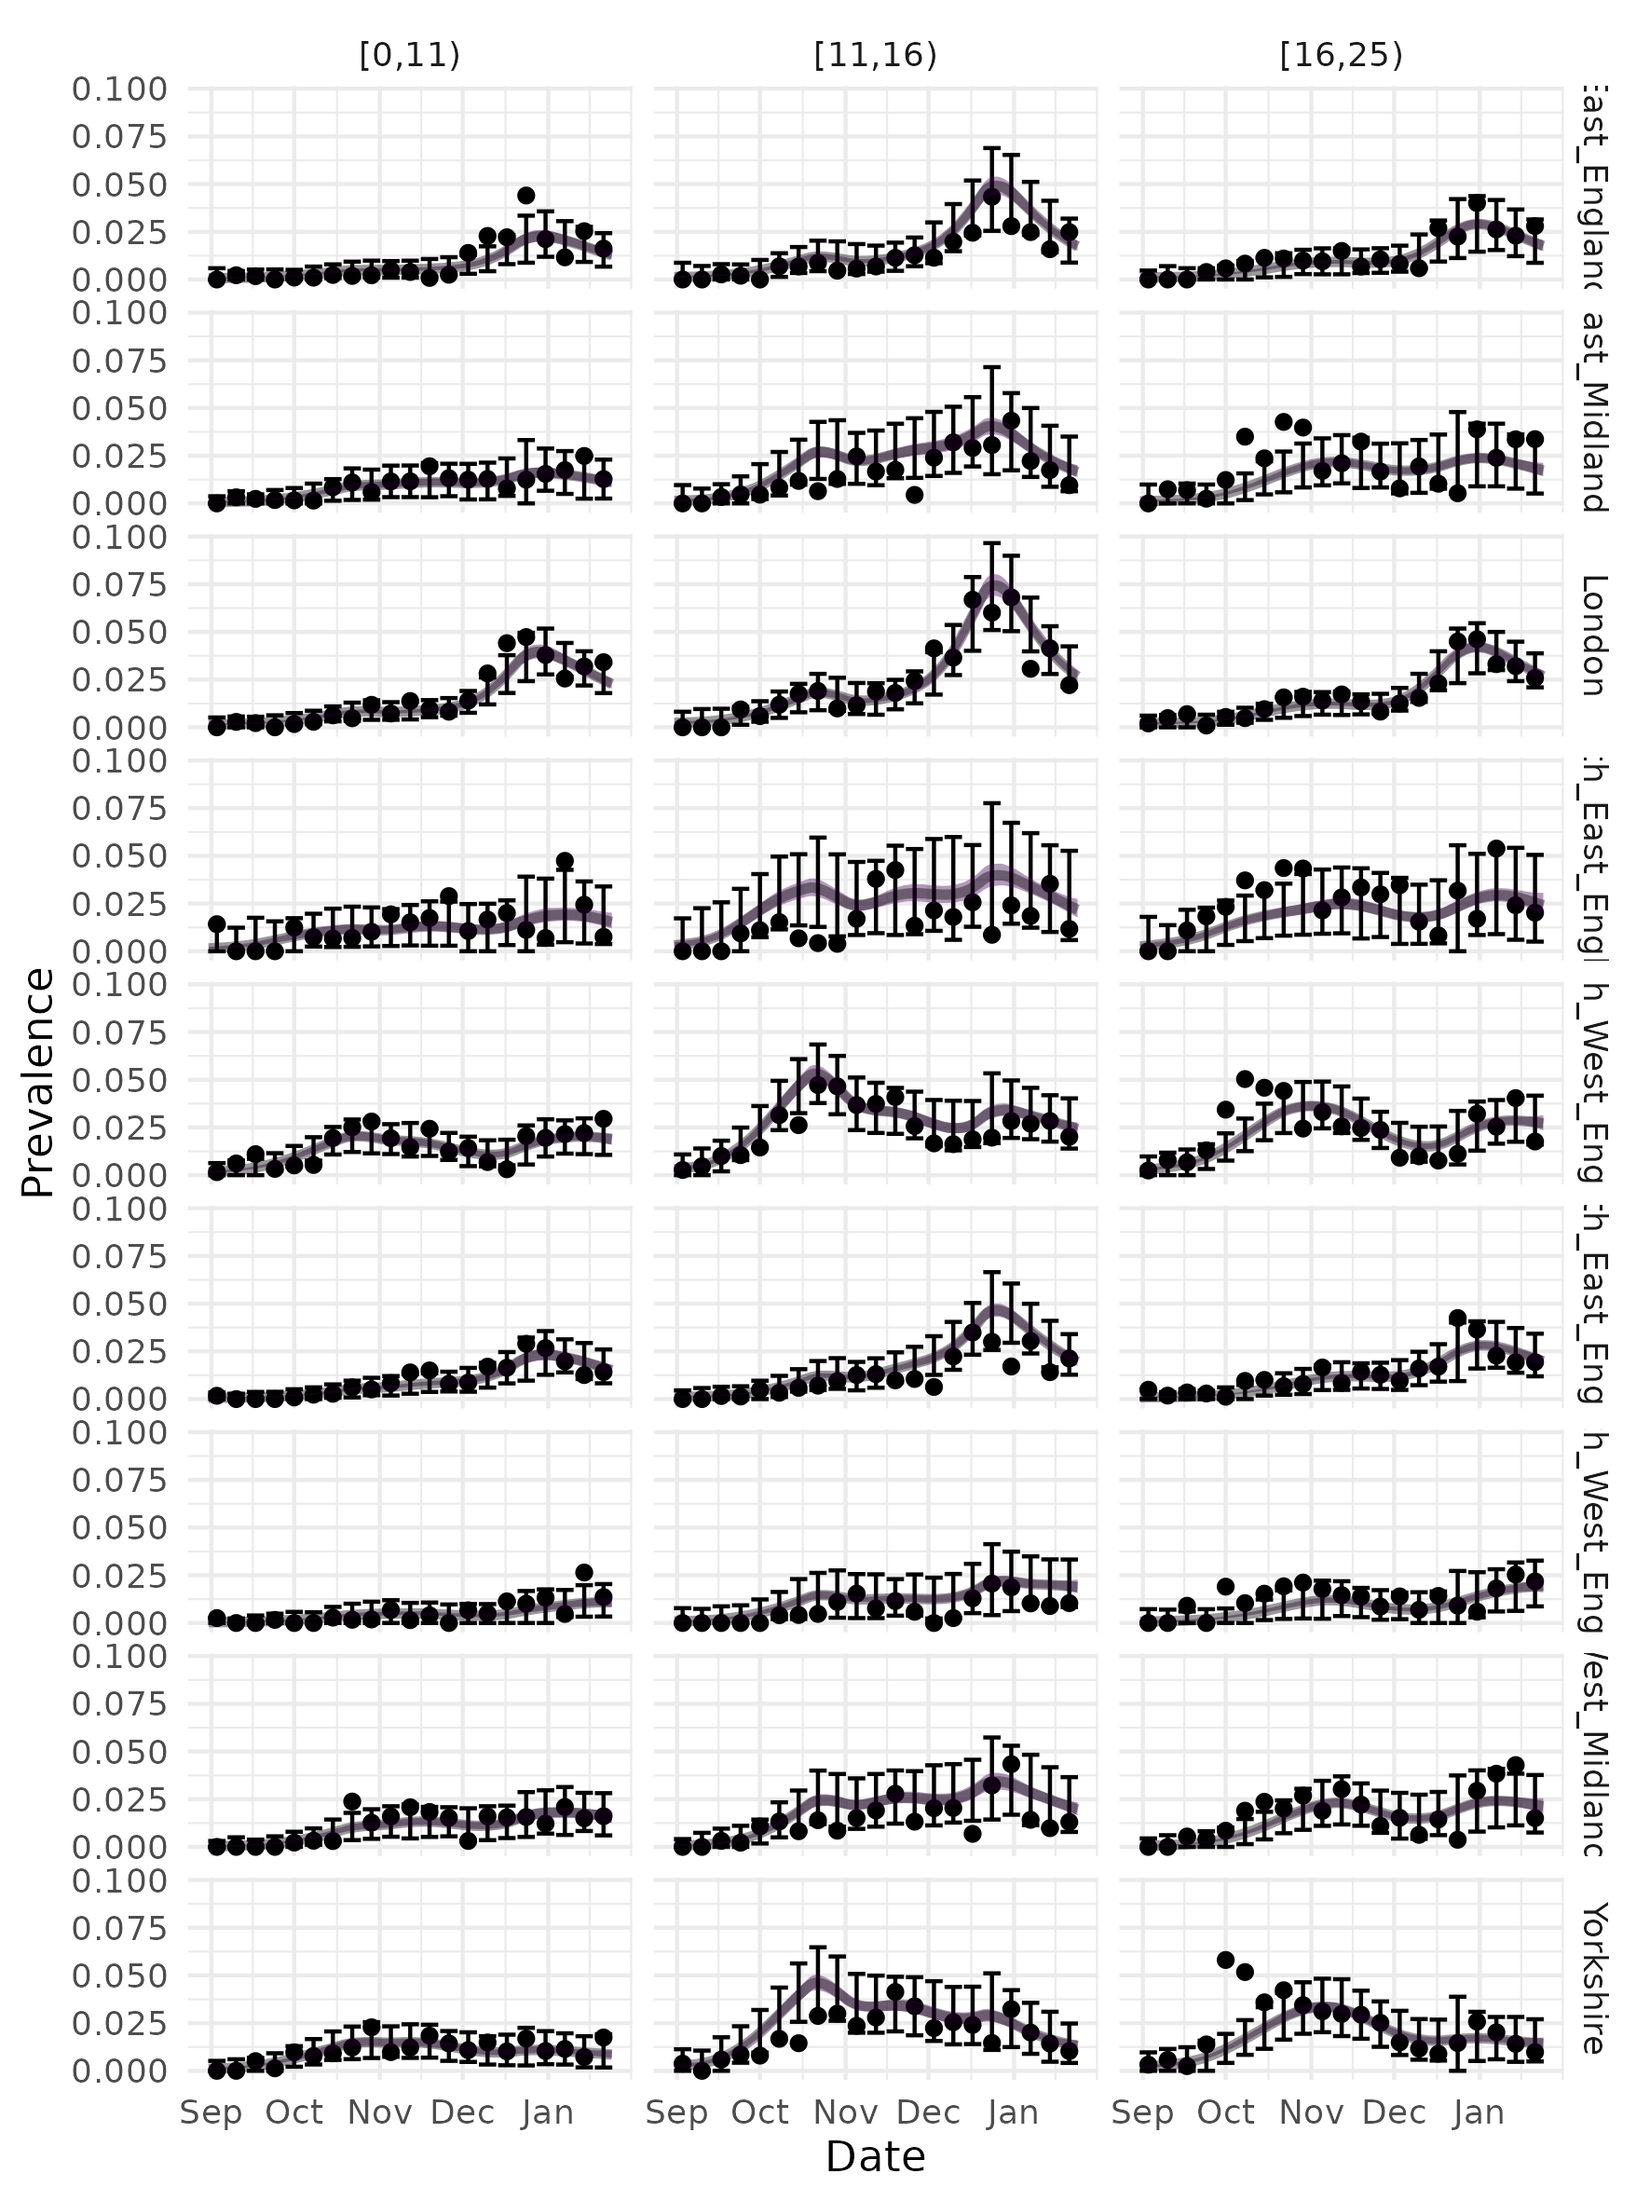
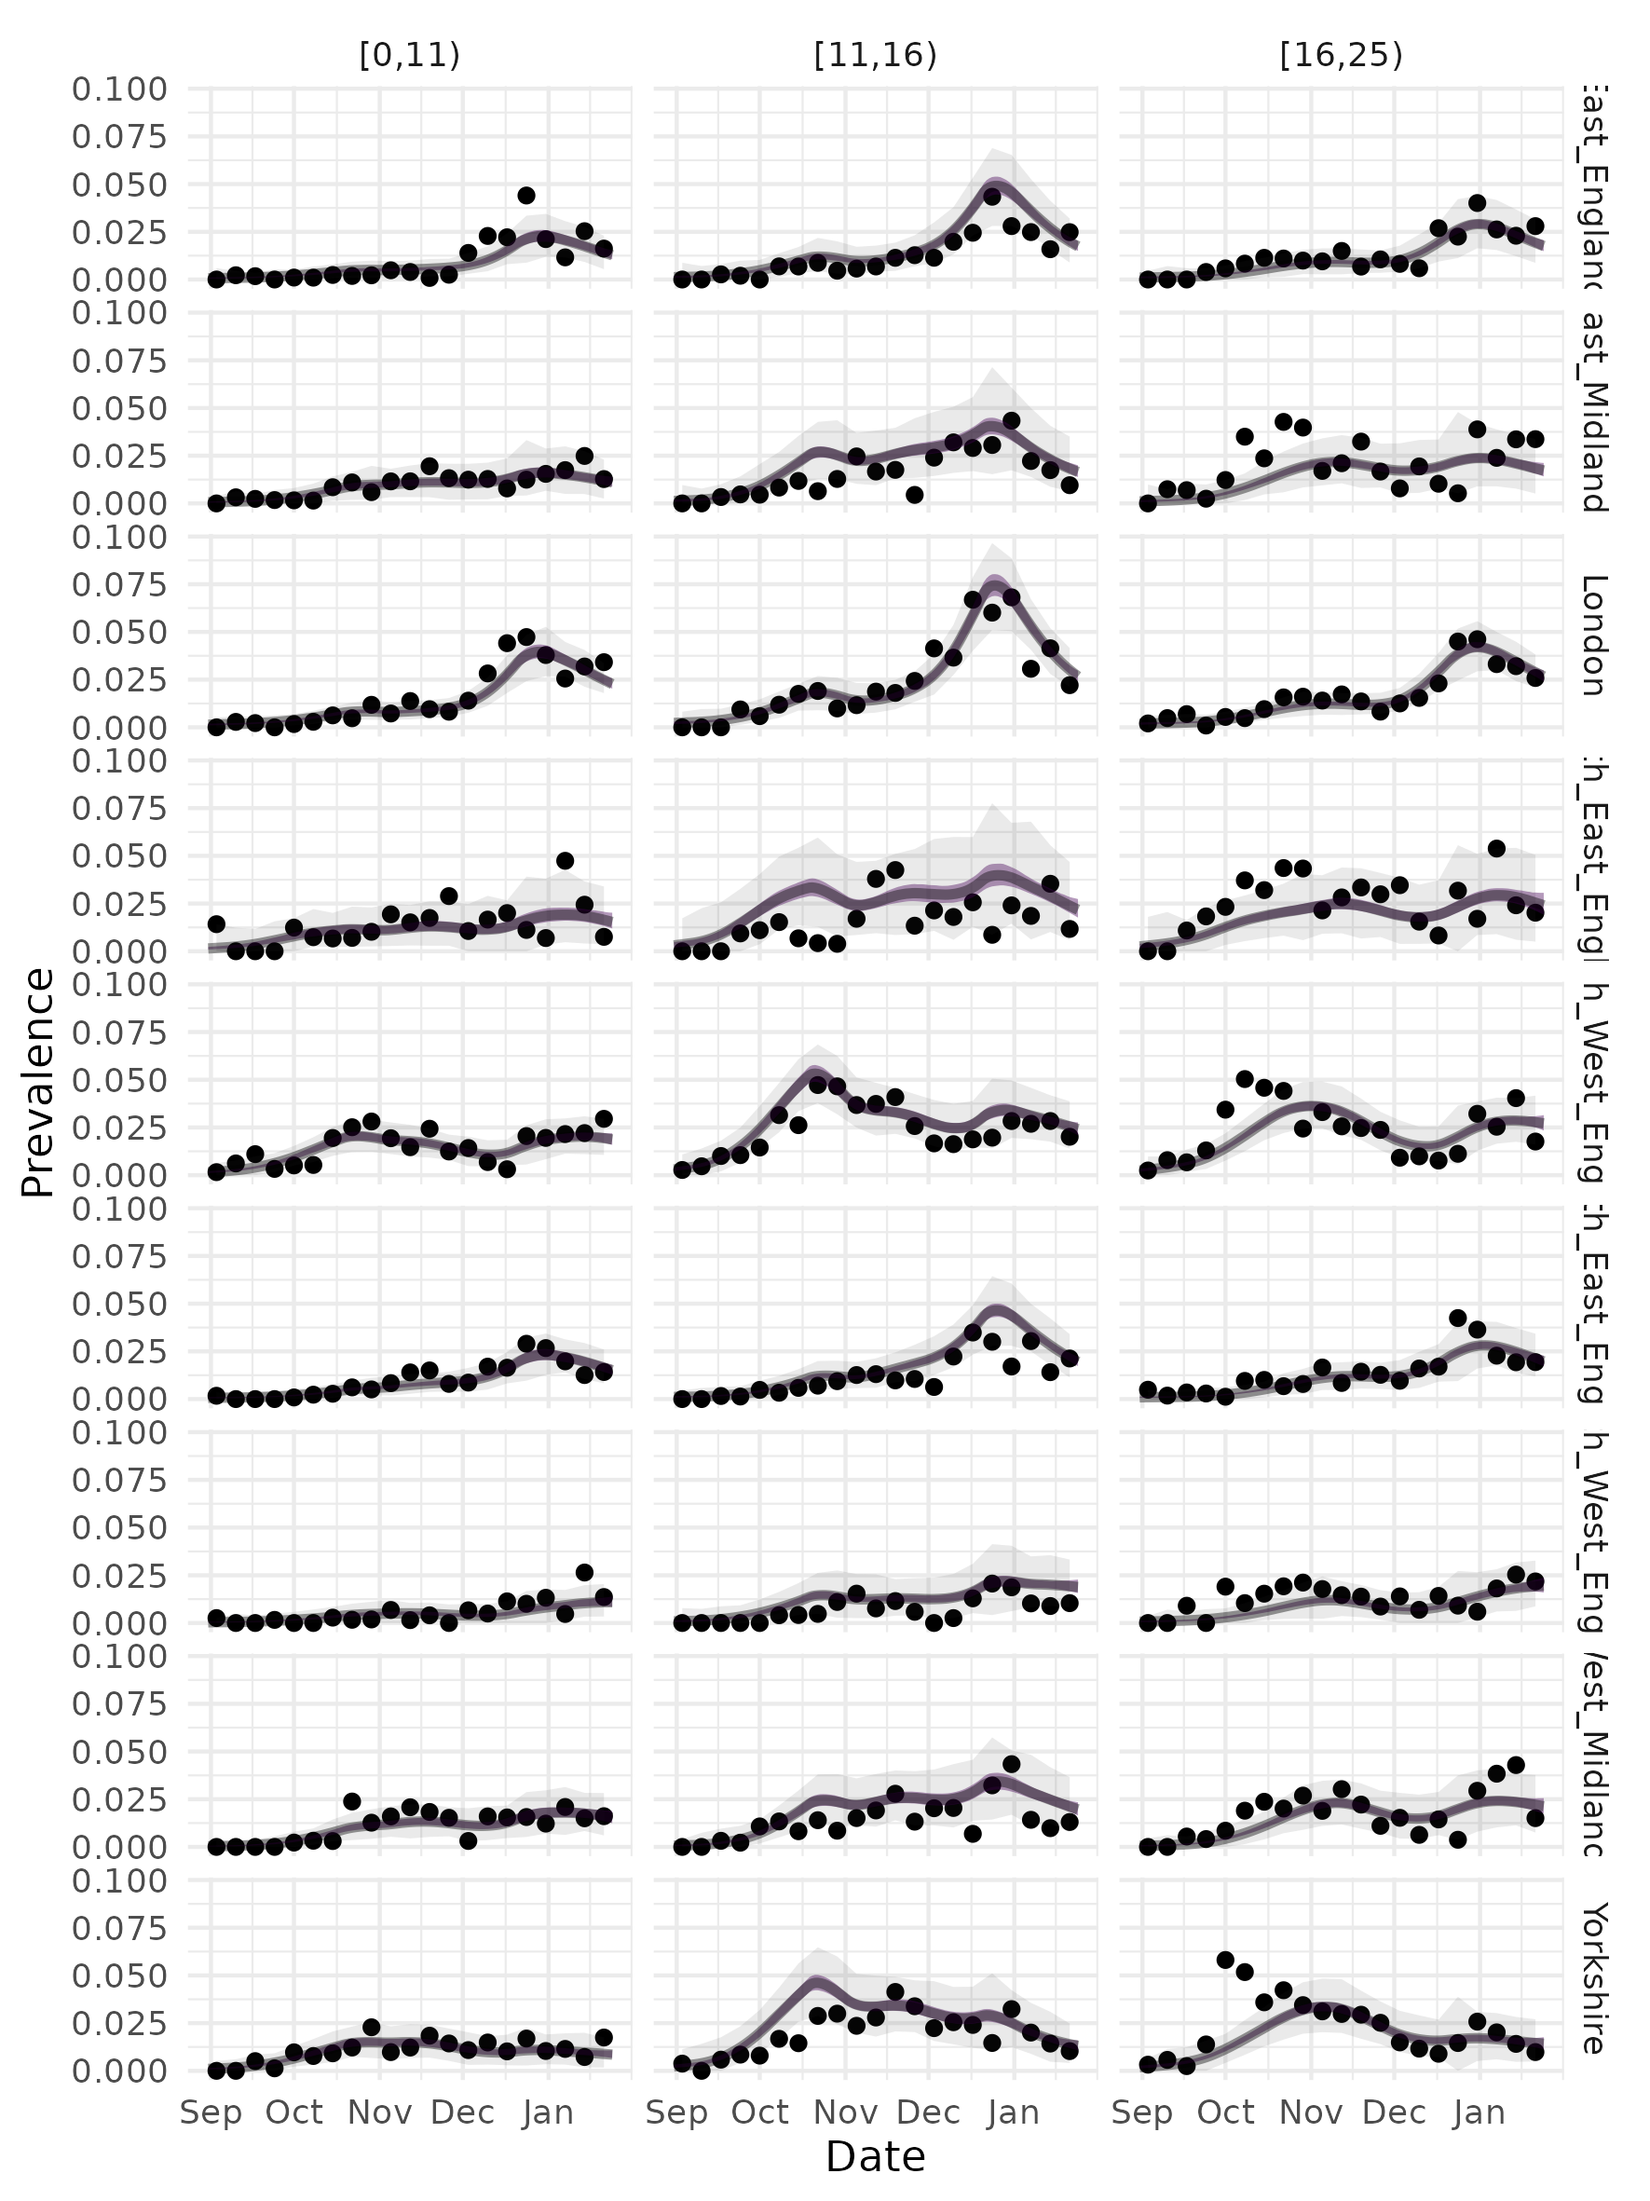
editing SEIR and adding results

diff --git a/SEIR.tex b/SEIR.tex
@@ -776,7 +776,9 @@ All $\sigma_\epsilon$ parameters had Rhat < 1.05.
 All parameters had ESS > 500, except $\sigma_\epsilon$ in London which had ESS of 182.
 Since $\sigma_\epsilon$ is not a parameter of interest, and all other parameters had sufficient ESS and Rhat, I considered the chains to have converged.
 
-
+Overall the model fits the data well (see \cref{SEIR:fig:prev-young,SEIR:fig:prev-old}).
+There are a few features of the data which are not captured by the model though.
+In particular, prevalence during October is higher in the 16--25s than the model predicts and lower in the 11--16s.
 \begin{figure}
     \thisfloatpagestyle{empty}
     \vspace{-3cm}
@@ -785,8 +787,9 @@ Since $\sigma_\epsilon$ is not a parameter of interest, and all other parameters
     \captionof{figure}[Posterior predictive prevalence (younger ages)]{%
         Posterior predictive prevalence by region and age for the younger three age groups (see \cref{SEIR:fig:prev-old} for the others).
         The central ribbon and line shows the posterior median and 95\% CrI estimate for the proportion of the relevant strata PCR positive on each day.
-        The error bar is the 95\% CrI including the noise due to the sampling (\ie observation process), aggregated by week.
+        The lighter outer ribbon is the 95\% CrI including the noise due to the sampling (\ie observation process), aggregated by week.
         The dots show the observed prevalence in CIS, aggregated by week.
+        For a well-calibrated model, 95\% of the dots would be within the outer ribbon.
     }
     \label{SEIR:fig:prev-young}
 \end{figure}
@@ -796,12 +799,83 @@ Since $\sigma_\epsilon$ is not a parameter of interest, and all other parameters
     \makebox[\textwidth][c]{\includegraphics[width=.9\paperwidth]{SEIR/CIS/prev_old}}
     \captionsetup{width=0.8\paperwidth}
     \captionof{figure}[Posterior predictive prevalence (older ages)]{%
-        Posterior predictive prevalence for the older three age groups (see \cref{SEIR:fig:prev-young} for the others and details of the plot).
+        Posterior predictive prevalence for the older three age groups (see \cref{SEIR:fig:prev-young} for the other age groups and details).
     }
     \label{SEIR:fig:prev-old}
 \end{figure}
 
+The 11--16 age group (roughly corresponding to compulsory secondary school education) is estimated to have the highest incidence (see \cref{SEIR:fig:incidence}).
+Incidence is smooth within each week but shows discontinuities between weeks.
+This is because the parameters within $\vec{\lambda}(t)$ are constant within each week.
+A constant $\vec{\lambda}(t)$ leads to exponential growth over short time periods, once the initial dynamics have died out.
+When the peak in incidence is estimated to occur varied by region, but due to this reason, is almost always on a Friday (see \cref{SEIR:fig:peak-incidence}).
+
+\begin{figure}
+    \includegraphics{SEIR/CIS/incidence}
+    \caption[Posterior estimates of incidence]{%
+        Posterior estimates (95\% CrI) of incidence by region and age.
+        See main text for discussion.
+    }
+    \label{SEIR:fig:incidence}
+\end{figure}
+
+The parameters $\beta_t$ absorb all the time-varying changes in transmission not captured by Google mobility and school attendance data.
+They trend downwards up until early December when they start increasing again.
+Each region is estimated independently, however correlation is clear across the regions.
+\begin{figure}
+    \includegraphics{SEIR/CIS/beta_walk}
+    \caption[Posterior estimates of $\beta_t$]{%
+        Posterior estimates $\beta_t$ for each week.
+        Shown are "violins" where the width is proportional to the kernel-density estimated posterior density at that point.
+        Values trend downwards until early December when an increase starts.
+    }
+    \label{SEIR:fig:beta-walk}
+\end{figure}
+
 \section{Discussion} \label{SEIR:sec:discussion}
+
+Parameterisation of this model is limited by the inference techniques.
+The algorithm used here tends to struggle with a large number of parameters.
+Alternative proposal schemes, such as blocking\todo{cite what RTM does?}, could help, or a more advanced algorithm such as NUTS (used elsewhere in this thesis).
+
+The current model is not very flexible with regards to the age distribution of infections.
+The lack of flexibility is visible in \cref{SEIR:fig:prev-young} where how well the model reproduces the data varies by age group.
+In some regions, there appears to be a trade-off between the 11--16s and 16--25s, with the model misfitting in opposite directions.
+The age distribution of infections determined by $\matr{\beta}$, and to a lesser extent $\vec{\pi}$, the former of which only contains one inferred parameter, $\beta_c$.
+More parameters would help to capture these dynamics more accurately.
+Increasing the number of parameters inferred in the contact matrices would allow for more flexibility in the age distribution of infections, either by introducing additional susceptibility or infectiousness parameters, or by allowing these parameters to vary over time.
+For example, the introduction and relaxation of control measures within schools over time is a plausible mechanism changing the age distribution of infections that cannot be captured in the current model because it only uses school attendance data with no allowance for the changing risk of within-school contacts.
+
+The weekly patterns in incidence are another limitation of the current parameterisation.
+The random walk and contact matrices both vary only on the weekly timescale.
+A daily random walk could provide more flexibility here.
+However, this would greatly increase the number of parameters.
+An alternative would be a smoothly-varying function or an approximation of a random walk such as that proposed by \textcite{ghoshApproximate}.
+
+The parameters $\beta_t$ absorb all the time-varying factors not captured by Google mobility and school attendance data.
+These factors are likely to be correlated across the country, giving the similar patterns for different regions (see \cref{SEIR:fig:beta-walk}).
+Exploiting these correlations by linking their values across regions could improve the precision of the estimates.
+This would require a more complex model without the independence of parameters between regions.
+
+Various factors could explain the pattern in the $\beta_t$ values, which have a minima near the start of December.
+Some hypothesis follow, although this analysis is unable to distinguish causality.
+Increased caution as cases and deaths increased could explain the decrease (\eg masking or stricter adherence to social distancing).
+The increase coincides with the rise of the Alpha variant, known to be more transmissible.
+This is a likely cause of the increase.
+A multiple variant model might be able to capture this more accurately.
+This would stratify positive tests in CIS by pre-Alpha or Alpha variant.
+Then, each variant would be explicitly included in the model to fit to this data.
+
+Extending the estimates here to the rest of the pandemic would clearly be of interest.
+However, this requires a more complex model structure.
+I chose the end of the modelling period to coincide with the vaccination rollout.
+Vaccination dramatically affects the transmission dynamics by introducing some additional immunity into the population.
+Mechanistic models require explicit representation of this immunity\todo{cite something about vaccination}.
+
+\todo[inline]{move the following discussion to conclusion chapter as relevant to whole thesis}
+Household structure is not included in this model.
+The household-based design of the survey is likely to induce clustering in results, increasing the variance of the measured prevalence.
+The beta-binomial likelihood structure should capture some of this variance within each strata\todo{ref beta-binomial as a model for clustering}, but not between strata.
 
 \section{Conclusion}
 
